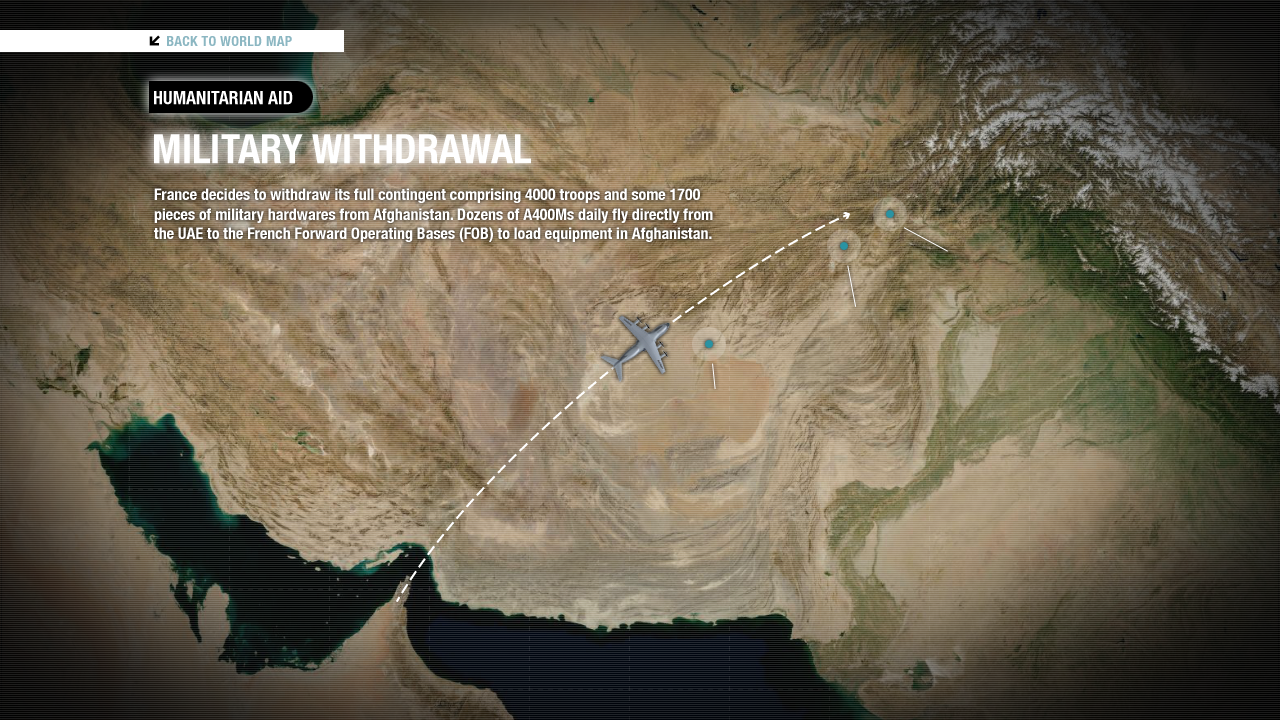
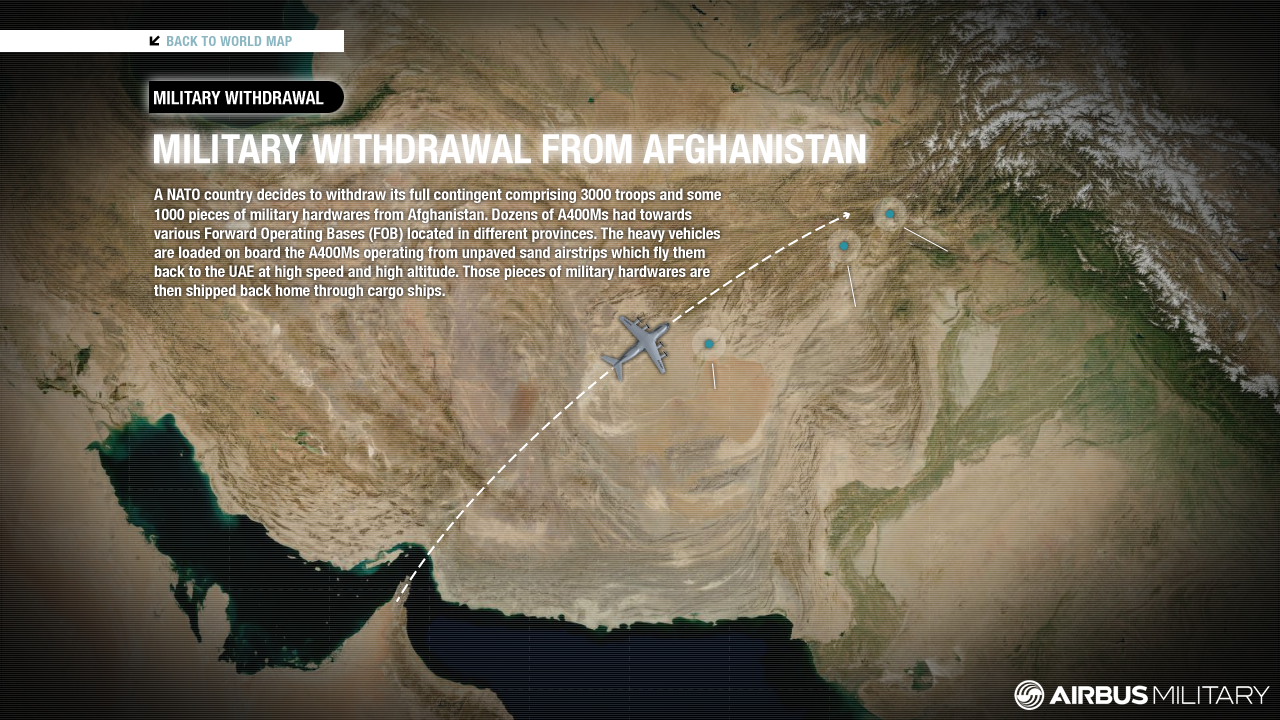
2

Changed region(s): [[0.125, 0.1528, 0.6875, 0.4278], [0.125, 0.0917, 0.2812, 0.1833], [0.7812, 0.9472, 1.0, 1.0]]

diff --git a/WpfApplication1/WpfApplication1/WorldUserControl.xaml b/WpfApplication1/WpfApplication1/WorldUserControl.xaml
@@ -205,16 +205,16 @@
         <!-- HorizontalAlignment siempre Left -->
         <!-- VerticalAlignment siempre Top -->
         <!-- -->
-        <local:MissionIconUserControl Panel.ZIndex="3" Height="45" HorizontalAlignment="Left" Margin="0" VerticalAlignment="Top" Width="39" MissionId="0" MissionTypeId="0" IsMissionTypeControl="false" Latitude="19 49 N" Longitude="072 10 W" PanelDescription="Lorem ipsum ad his scripta blandit partiendo, eum fastidii accumsan euripidis in, eum liber hendrerit an." IconImage="icons/missionIconId0.png" PanelIconImage="icons/missionIconId0.png"/>
-        <local:MissionIconUserControl Panel.ZIndex="3" Height="45" HorizontalAlignment="Left" Margin="0" VerticalAlignment="Top" Width="39" MissionId="1" MissionTypeId="1" IsMissionTypeControl="false" Latitude="11 35 N" Longitude="042 58 E" PanelDescription="description1" IconImage="icons/missionIconId1.png" PanelIconImage="icons/missionIconId1.png"/>
-        <local:MissionIconUserControl Panel.ZIndex="3" Height="45" HorizontalAlignment="Left" Margin="0" VerticalAlignment="Top" Width="39" MissionId="2" MissionTypeId="2" IsMissionTypeControl="false" Latitude="27 08 N" Longitude="014 21 W" PanelDescription="blala lalala" IconImage="icons/missionIconId2.png" PanelIconImage="icons/missionIconId2.png"/>
-        <local:MissionIconUserControl Panel.ZIndex="3" Height="45" HorizontalAlignment="Left" Margin="0" VerticalAlignment="Top" Width="39" MissionId="3" MissionTypeId="2" IsMissionTypeControl="false" Latitude="29 54 N" Longitude="087 14 W" PanelDescription="holalalal lalala lala" IconImage="icons/missionIconId2.png" PanelIconImage="icons/missionIconId2.png"/>
-        <local:MissionIconUserControl Panel.ZIndex="3" Height="45" HorizontalAlignment="Left" Margin="0" VerticalAlignment="Top" Width="39" MissionId="4" MissionTypeId="3" IsMissionTypeControl="false" Latitude="20 16 N" Longitude="094 25 W" PanelDescription="holalalal lalala lala" IconImage="icons/missionIconId3.png" PanelIconImage="icons/missionIconId3.png"/>
-        <local:MissionIconUserControl Panel.ZIndex="3" Height="45" HorizontalAlignment="Left" Margin="0" VerticalAlignment="Top" Width="39" MissionId="5" MissionTypeId="4" IsMissionTypeControl="false" Latitude="25 40 N" Longitude="013 53 E" PanelDescription="holalalal lalala lala" IconImage="icons/missionIconId4.png" PanelIconImage="icons/missionIconId4.png"/>
-        <local:MissionIconUserControl Panel.ZIndex="3" Height="45" HorizontalAlignment="Left" Margin="0" VerticalAlignment="Top" Width="39" MissionId="6" MissionTypeId="4" IsMissionTypeControl="false" Latitude="28 25 N" Longitude="021 31 E" PanelDescription="holalalal lalala lala" IconImage="icons/missionIconId4.png" PanelIconImage="icons/missionIconId4.png"/>
-        <local:MissionIconUserControl Panel.ZIndex="3" Height="45" HorizontalAlignment="Left" Margin="0" VerticalAlignment="Top" Width="39" MissionId="7" MissionTypeId="2" IsMissionTypeControl="false" Latitude="26 25 N" Longitude="056 36 E" PanelDescription="holalalal lalala lala" IconImage="icons/missionIconId2.png" PanelIconImage="icons/missionIconId2.png"/>
-        <local:MissionIconUserControl Panel.ZIndex="3" Height="45" HorizontalAlignment="Left" Margin="0" VerticalAlignment="Top" Width="39" MissionId="8" MissionTypeId="2" IsMissionTypeControl="false" Latitude="33 09 N" Longitude="062 56 E" PanelDescription="holalalal lalala lala" IconImage="icons/missionIconId2.png" PanelIconImage="icons/missionIconId2.png"/>
-        <local:MissionIconUserControl Panel.ZIndex="3" Height="45" HorizontalAlignment="Left" Margin="0" VerticalAlignment="Top" Width="39" MissionId="9" MissionTypeId="1" IsMissionTypeControl="false" Latitude="33 54 N" Longitude="068 12 E" PanelDescription="holalalal lalala lala" IconImage="icons/missionIconId1.png" PanelIconImage="icons/missionIconId1.png"/>
+        <local:MissionIconUserControl Panel.ZIndex="3" Height="88" HorizontalAlignment="Left" Margin="0" VerticalAlignment="Top" Width="72" MissionId="0" MissionTypeId="0" IsMissionTypeControl="false" Latitude="19 49 N" Longitude="072 10 W" PanelDescription="EARTHQUAKE IN HAITI" IconImage="icons/missionIcon-Civic-HumanitarianAid.png" PanelIconImage="icons/missionPanelIcon0.png"/>
+        <local:MissionIconUserControl Panel.ZIndex="3" Height="88" HorizontalAlignment="Left" Margin="0" VerticalAlignment="Top" Width="72" MissionId="1" MissionTypeId="1" IsMissionTypeControl="false" Latitude="11 35 N" Longitude="042 58 E" PanelDescription="ANTI-PIRACY" IconImage="icons/missionIcon-Civic-LawEnforcement.png" PanelIconImage="icons/missionPanelIcon1.png"/>
+        <local:MissionIconUserControl Panel.ZIndex="3" Height="88" HorizontalAlignment="Left" Margin="0" VerticalAlignment="Top" Width="72" MissionId="2" MissionTypeId="2" IsMissionTypeControl="false" Latitude="27 08 N" Longitude="014 21 W" PanelDescription="IMMIGRATION CONTROL" IconImage="icons/missionIcon-Civic-LawEnforcement.png" PanelIconImage="icons/missionPanelIcon2.png"/>
+        <local:MissionIconUserControl Panel.ZIndex="3" Height="88" HorizontalAlignment="Left" Margin="0" VerticalAlignment="Top" Width="72" MissionId="3" MissionTypeId="2" IsMissionTypeControl="false" Latitude="29 54 N" Longitude="087 14 W" PanelDescription="ANTIPOLLUTION SURVEILLANCE" IconImage="icons/missionIcon-Civic-LawEnforcement.png" PanelIconImage="icons/missionPanelIcon3.png"/>
+        <local:MissionIconUserControl Panel.ZIndex="3" Height="88" HorizontalAlignment="Left" Margin="0" VerticalAlignment="Top" Width="72" MissionId="4" MissionTypeId="3" IsMissionTypeControl="false" Latitude="20 16 N" Longitude="094 25 W" PanelDescription="DRUG INTERDICTION" IconImage="icons/missionIcon-Civic-LawEnforcement.png" PanelIconImage="icons/missionPanelIcon4.png"/>
+        <local:MissionIconUserControl Panel.ZIndex="3" Height="88" HorizontalAlignment="Left" Margin="0" VerticalAlignment="Top" Width="72" MissionId="5" MissionTypeId="4" IsMissionTypeControl="false" Latitude="25 40 N" Longitude="013 53 E" PanelDescription="DEEP STRIKE MISSION" IconImage="icons/missionIcon-Military-AirSupport.png" PanelIconImage="icons/missionPanelIcon5.png"/>
+        <local:MissionIconUserControl Panel.ZIndex="3" Height="88" HorizontalAlignment="Left" Margin="0" VerticalAlignment="Top" Width="72" MissionId="6" MissionTypeId="4" IsMissionTypeControl="false" Latitude="28 25 N" Longitude="021 31 E" PanelDescription="PEACE ENFORCEMENT MISSION" IconImage="icons/missionIcon-Military-Transport.png" PanelIconImage="icons/missionPanelIcon6.png"/>
+        <local:MissionIconUserControl Panel.ZIndex="3" Height="88" HorizontalAlignment="Left" Margin="0" VerticalAlignment="Top" Width="72" MissionId="7" MissionTypeId="2" IsMissionTypeControl="false" Latitude="26 25 N" Longitude="056 36 E" PanelDescription="SUBMARINE THREATH" IconImage="icons/missionIcon-Military-ISR.png" PanelIconImage="icons/missionPanelIcon7.png"/>
+        <local:MissionIconUserControl Panel.ZIndex="3" Height="88" HorizontalAlignment="Left" Margin="0" VerticalAlignment="Top" Width="72" MissionId="8" MissionTypeId="2" IsMissionTypeControl="false" Latitude="33 09 N" Longitude="062 56 E" PanelDescription="EARTHQUAKE IN ASIA" IconImage="icons/missionIcon-Civic-HumanitarianAid.png" PanelIconImage="icons/missionPanelIcon8.png"/>
+        <local:MissionIconUserControl Panel.ZIndex="3" Height="88" HorizontalAlignment="Left" Margin="0" VerticalAlignment="Top" Width="72" MissionId="9" MissionTypeId="1" IsMissionTypeControl="false" Latitude="33 54 N" Longitude="068 12 E" PanelDescription="MILITARY WITHDRAWAL FROM AFGHANISTAN" IconImage="icons/missionIcon-Military-AirSupport.png" PanelIconImage="icons/missionPanelIcon9.png"/>
 
         <!-- Aviones individuales en el glogo terráqueo /////////////////////////////////////////////////////////////////////////////-->
         <!-- Funciona igual que las misiones-->
@@ -238,13 +238,17 @@
         <local:ViewMissionUserControl x:Name="viewMissionUserControl" Panel.ZIndex="3" Margin="0,120,0,0" VerticalAlignment="Top" HorizontalAlignment="Left" Width="95" />
         
         <!-- Plane types -->
-        <Rectangle x:Name="planeTypesRectangle" Panel.ZIndex="4" RadiusX="12" RadiusY="13" StrokeThickness="0" Fill="#99CECECE" Height="81" VerticalAlignment="Bottom" Margin="442,0,462,8"/>
+        
+        <Rectangle x:Name="planeTypesRectangle" Panel.ZIndex="4" RadiusX="12" RadiusY="13" StrokeThickness="0" Fill="#99CECECE" Height="110" VerticalAlignment="Bottom" Margin="283,0,283,14"/>
+        
         <Rectangle Panel.ZIndex="4" HorizontalAlignment="Left" Margin="457.276,0,0,32" Width="45" Height="45" VerticalAlignment="Bottom" StrokeDashArray="1 0 1" Stroke="#FF007FC2" StrokeThickness="2" />
         <Rectangle Panel.ZIndex="4" HorizontalAlignment="Left" Margin="534.609,0,0,32" Width="45" Height="45" VerticalAlignment="Bottom" StrokeDashArray="1 0 1" Stroke="#FF007FC2" StrokeThickness="2" />
         <Rectangle Panel.ZIndex="4" Margin="612.381,0,622.619,32" Height="45" VerticalAlignment="Bottom" StrokeDashArray="1 0 1" Stroke="#FF007FC2" StrokeThickness="2" />
         <Rectangle Panel.ZIndex="4" HorizontalAlignment="Right" Margin="0,0,549.495,32" Width="45" Height="45" VerticalAlignment="Bottom" StrokeDashArray="1 0 1" Stroke="#FF007FC2" StrokeThickness="2" />
         <Rectangle Panel.ZIndex="4" HorizontalAlignment="Right" Margin="0,0,471.723,32" Width="45" Height="45" VerticalAlignment="Bottom" StrokeDashArray="1 0 1" Stroke="#FF007FC2" StrokeThickness="2" />
-
+        
+        <Image Panel.ZIndex="4" Source="icons/planeIconsBg.png" Width="714" Height="110" Margin="283,595,0,0" VerticalAlignment="Top" HorizontalAlignment="Left" />
+        
         <!-- Estos controles representan los tipos de avión que existen (es decir los modelos de avión) /////////////////////////////////////////////////////////////////////////////-->
         <!-- se pueden agregar tantos como quieras-->
         <!-- -->
@@ -269,11 +273,77 @@
         <!-- -->
         <!-- IconImage es la imagen que se muestra como icono de este tipo de avión-->
         <!-- -->
-        <local:PlaneIconUserControl Panel.ZIndex="5" PlaneTypeId="0" IsPlaneTypeControl="true" Margin="0,0,777.724,31.96" Height="45" VerticalAlignment="Bottom" d:LayoutOverrides="Height" PopupCardImage="missionBackgrounds/background0.png" PopupInfoDescriptionText="INFO DESC 0" PopupInfoMediaFile="icons/planeIconId0.png" PopupInfoTitleText="INFO TITLE 0" PopupPanoramaImage="textures/panoramas/C295-Chile-trasera.jpg" PopupVideoMediaFile="missionBackgrounds/background0.png" PopupTitleText="CS 100" PopupSubtitleText="THE CLIENT'S NEEDS 100" IconImage="icons/planeIconId0.png" HorizontalAlignment="Right" Width="45"/>
-        <local:PlaneIconUserControl Panel.ZIndex="5" PlaneTypeId="1" IsPlaneTypeControl="true" Margin="0,0,700.391,32" Height="45" VerticalAlignment="Bottom" d:LayoutOverrides="Height" PopupCardImage="missionBackgrounds/background1.png" PopupInfoDescriptionText="INFO DESC 1" PopupInfoMediaFile="missionMilestoneMedia/mission0/milestone1popup.wmv" PopupInfoTitleText="INFO TITLE 1" PopupPanoramaImage="planePopup/none.png" PopupVideoMediaFile="missionIntroVideos/sample_mpeg4.mp4" PopupSubtitleText="THE CLIENT'S NEEDS 101" PopupTitleText="CS 101" IconImage="icons/planeIconId1.png" HorizontalAlignment="Right" Width="45"/>
-        <local:PlaneIconUserControl Panel.ZIndex="5" PlaneTypeId="2" IsPlaneTypeControl="true" Margin="0,0,622.619,32" Height="45" VerticalAlignment="Bottom" d:LayoutOverrides="Height" PopupCardImage="missionBackgrounds/background2.png" PopupInfoDescriptionText="INFO DESC 2" PopupInfoMediaFile="missionMilestoneMedia/mission0/milestone1popup.wmv" PopupInfoTitleText="INFO TITLE 2" PopupPanoramaImage="textures/panoramas/C295-Chile-consola.jpg" PopupVideoMediaFile="missionIntroVideos/sample_mpeg4.mp4" PopupSubtitleText="THE CLIENT'S NEEDS 102" PopupTitleText="CS 102" IconImage="icons/planeIconId2.png" HorizontalAlignment="Right" Width="45"/>
-        <local:PlaneIconUserControl Panel.ZIndex="5" PlaneTypeId="3" IsPlaneTypeControl="true" Margin="0,0,549.495,32" Height="45" HorizontalAlignment="Right" Width="45" VerticalAlignment="Bottom" d:LayoutOverrides="Height"  PopupCardImage="missionBackgrounds/background3.png" PopupInfoDescriptionText="INFO DESC 3" PopupInfoMediaFile="missionMilestoneMedia/mission0/milestone1popup.wmv" PopupInfoTitleText="INFO TITLE 3" PopupPanoramaImage="textures/panoramas/C295-Portugal.jpg" PopupVideoMediaFile="missionIntroVideos/sample_mpeg4.mp4" PopupSubtitleText="THE CLIENT'S NEEDS 103" PopupTitleText="CS 103" IconImage="icons/planeIconId3.png"/>
-        <local:PlaneIconUserControl Panel.ZIndex="5" PlaneTypeId="4" IsPlaneTypeControl="true" Margin="0,0,471.723,32" Height="45" HorizontalAlignment="Right" Width="45" VerticalAlignment="Bottom" d:LayoutOverrides="Height"   PopupCardImage="missionBackgrounds/background4.png" PopupInfoDescriptionText="INFO DESC 4" PopupInfoMediaFile="missionMilestoneMedia/mission0/milestone1popup.wmv" PopupInfoTitleText="INFO TITLE 4" PopupPanoramaImage="textures/panoramas/A400M.jpg" PopupVideoMediaFile="missionIntroVideos/sample_mpeg4.mp4" PopupSubtitleText="THE CLIENT'S NEEDS 104" PopupTitleText="CS 104" IconImage="icons/planeIconId4.png"/>
+        <local:PlaneIconUserControl Panel.ZIndex="5" PlaneTypeId="0" IsPlaneTypeControl="true" Margin="0,0,902,22" Height="73" VerticalAlignment="Bottom" d:LayoutOverrides="Height" HorizontalAlignment="Right" Width="88"
+                                    PopupCardImage="planePopup/plane0TechData.png"
+                                    PopupInfoDescriptionText="The A400M is the most versatile airlifter currently available and responds to the most varied needs of world Air Forces and other organizations in the 21st century. It can perform three very different types of duties: it is able to perform both short range tactical missions directly to the site of operation, as well as long range strategic/logistic ones."
+                                    PopupInfoMediaFile="planePopup/plane0InfoImg.png"
+                                    PopupInfoTitleText="BORRAR"
+                                    PopupPanoramaImage="textures/panoramas/A400M.jpg"
+                                    PopupVideoMediaFile="missionBackgrounds/background0.png"
+                                    PopupTitleText="A400M"
+                                    PopupSubtitleText="THE VERSATILE AIRLIFTER"
+                                    IconImage="icons/planeIconId0.png"/>
+        <local:PlaneIconUserControl Panel.ZIndex="5" PlaneTypeId="1" IsPlaneTypeControl="true" Margin="0,0,800,22" Height="73" VerticalAlignment="Bottom" d:LayoutOverrides="Height" HorizontalAlignment="Right" Width="88"
+                                    PopupCardImage="planePopup/plane1TechData.png"
+                                    PopupInfoDescriptionText="The A330 MRTT is the only new-generation Multi Role Tanker Transport aircraft flying, and fully certified today, after having demonstrated its capability during an extensive Flight Test campaign. Following a first delivery in early June, it is due to begin operations with the Royal Australian Air Force (RAAF) in early Fall. The A330 MRTT uniquely offers military strategic air transport as well as air-to-air refuelling capabilities."
+                                    PopupInfoMediaFile="planePopup/plane1InfoImg.png"
+                                    PopupInfoTitleText="BORRAR"
+                                    PopupPanoramaImage="textures/panoramas/A330MRTT.jpg"
+                                    PopupVideoMediaFile="missionIntroVideos/sample_mpeg4.mp4"
+                                    PopupSubtitleText="THE 21ST CENTURY BENCHMARK"
+                                    PopupTitleText="A330 MRTT"
+                                    IconImage="icons/planeIconId1.png"/>
+        <local:PlaneIconUserControl Panel.ZIndex="5" PlaneTypeId="2" IsPlaneTypeControl="true" Margin="0,0,698,22" Height="73" VerticalAlignment="Bottom" d:LayoutOverrides="Height" HorizontalAlignment="Right" Width="88"
+                                    PopupCardImage="planePopup/plane2TechData.png"
+                                    PopupInfoDescriptionText="The Airbus Military C295 is a new generation, very robust and reliable, highly versatile tactical airlifter able to carry up to nine tonnes of payload or up to 71 personnel, at a maximum cruise speed of 260 kt - 480 km/h. Fitted with a retractable landing gear and a pressurised cabin, it can cruise at altitudes up to 25,000 ft, while retaining remarkable short take-off and landing (STOL) performance from unprepared short, soft and rough airstrips, as well as low level flight characteristics."
+                                    PopupInfoMediaFile="planePopup/plane2InfoImg.png"
+                                    PopupInfoTitleText="BORRAR"
+                                    PopupPanoramaImage="textures/panoramas/C295-Portugal.jpg"
+                                    PopupVideoMediaFile="missionIntroVideos/sample_mpeg4.mp4"
+                                    PopupSubtitleText="THE TACTICAL WORKHORSE"
+                                    PopupTitleText="C295"
+                                    IconImage="icons/planeIconId2.png"/>
+        <local:PlaneIconUserControl Panel.ZIndex="5" PlaneTypeId="3" IsPlaneTypeControl="true" Margin="0,0,596,22" Height="73" VerticalAlignment="Bottom" d:LayoutOverrides="Height" HorizontalAlignment="Right" Width="88"
+                                    PopupCardImage="planePopup/plane3TechData.png"
+                                    PopupInfoDescriptionText="The well-proven CN235 is the lowest cost solution to meet the needs and requirements of governments and air forces, as well as non-governmental organisations in the light and medium airlift field. Able to carry up to six tonnes / 13,200lb of payload, or up to 51 personnel, the CN235 has gained vast experience in daily airlift missions, in the deployment and logistic support of peacekeeping forces and in disaster relief operations or any other 'civic' missions for the benefit of society."
+                                    PopupInfoMediaFile="planePopup/plane3InfoImg.png"
+                                    PopupInfoTitleText="BORRAR"
+                                    PopupPanoramaImage="planePopup/none.png"
+                                    PopupVideoMediaFile="missionIntroVideos/sample_mpeg4.mp4"
+                                    PopupSubtitleText="THE LOWER COST TACTICAL AIRLIFTER"
+                                    PopupTitleText="CN235"
+                                    IconImage="icons/planeIconId3.png"/>
+        <local:PlaneIconUserControl Panel.ZIndex="5" PlaneTypeId="4" IsPlaneTypeControl="true" Margin="0,0,494,22" Height="73" VerticalAlignment="Bottom" d:LayoutOverrides="Height" HorizontalAlignment="Right" Width="88"
+                                    PopupCardImage="planePopup/plane2TechData.png"
+                                    PopupInfoDescriptionText="The C295 MPA is a military multirole aircraft with optimum characteristics for Maritime Patrol. It is equipped with a new generation mission system, with proven capability for anti-submarine and antisurface (ASW/ ASuW) missions in the NATO environment. And it is ready now!"
+                                    PopupInfoMediaFile="planePopup/plane4InfoImg.png"
+                                    PopupInfoTitleText="BORRAR"
+                                    PopupPanoramaImage="textures/panoramas/C295-Chile.jpg"
+                                    PopupVideoMediaFile="missionIntroVideos/sample_mpeg4.mp4"
+                                    PopupSubtitleText="THE NEW STANDARD FOR MULTI-ROLE MPA AND ASW"
+                                    PopupTitleText="C295 MPA"
+                                    IconImage="icons/planeIconId4.png"/>
+        <local:PlaneIconUserControl Panel.ZIndex="5" PlaneTypeId="5" IsPlaneTypeControl="true" Margin="0,0,392,22" Height="73" VerticalAlignment="Bottom" d:LayoutOverrides="Height" HorizontalAlignment="Right" Width="88"
+                                    PopupCardImage="planePopup/plane3TechData.png"
+                                    PopupInfoDescriptionText="The CN235 MPA is a multirole maritime patrol and surveillance aircraft based on the proven CN235 military transport aircraft. It represents a reference for Maritime Surveillance and Homeland Security missions as well as Search And Rescue (SAR), logistic transport and personnel transport."
+                                    PopupInfoMediaFile="planePopup/plane5InfoImg.png"
+                                    PopupInfoTitleText="BORRAR"
+                                    PopupPanoramaImage="planePopup/none.png"
+                                    PopupVideoMediaFile="missionIntroVideos/sample_mpeg4.mp4"
+                                    PopupSubtitleText="THE MARITIME SURVEILLANCE AIRCRAFT PREFERRED BY COAST GUARDS"
+                                    PopupTitleText="CN235 MPA"
+                                    IconImage="icons/planeIconId5.png"/>
+        <local:PlaneIconUserControl Panel.ZIndex="5" PlaneTypeId="6" IsPlaneTypeControl="true" Margin="0,0,290,22" Height="73" VerticalAlignment="Bottom" d:LayoutOverrides="Height" HorizontalAlignment="Right" Width="88"
+                                    PopupCardImage="planePopup/plane6TechData.png"
+                                    PopupInfoDescriptionText="Able to carry up to 25 personnel or 2.8 tonne/6,200lb max payload, the C212 was designed to operate in austere environments for extended periods of time, without the need for ground support equipment. With the experience accumulated during its 35 years of reliable operations, during which it evolved up from the -100 to the -400 series, the C212 has become the market leader in service with military, government, and civil operators."
+                                    PopupInfoMediaFile="planePopup/plane6InfoImg.png"
+                                    PopupInfoTitleText="BORRAR"
+                                    PopupPanoramaImage="planePopup/none.png"
+                                    PopupVideoMediaFile="missionIntroVideos/sample_mpeg4.mp4"
+                                    PopupSubtitleText="MILITARY TRANSPORT AIRCRAFT"
+                                    PopupTitleText="C212"
+                                    IconImage="icons/planeIconId6.png"/>
+
         <local:PlanePopOutUserControl x:Name="planePopOutUserControl" Panel.ZIndex="4" Margin="8,0,0,135.135" HorizontalAlignment="Left" Width="87" Height="112.865" VerticalAlignment="Bottom"/>        
         <Grid x:Name="missionTypesGrid" Panel.ZIndex="3" d:IsHidden="True" >
 
